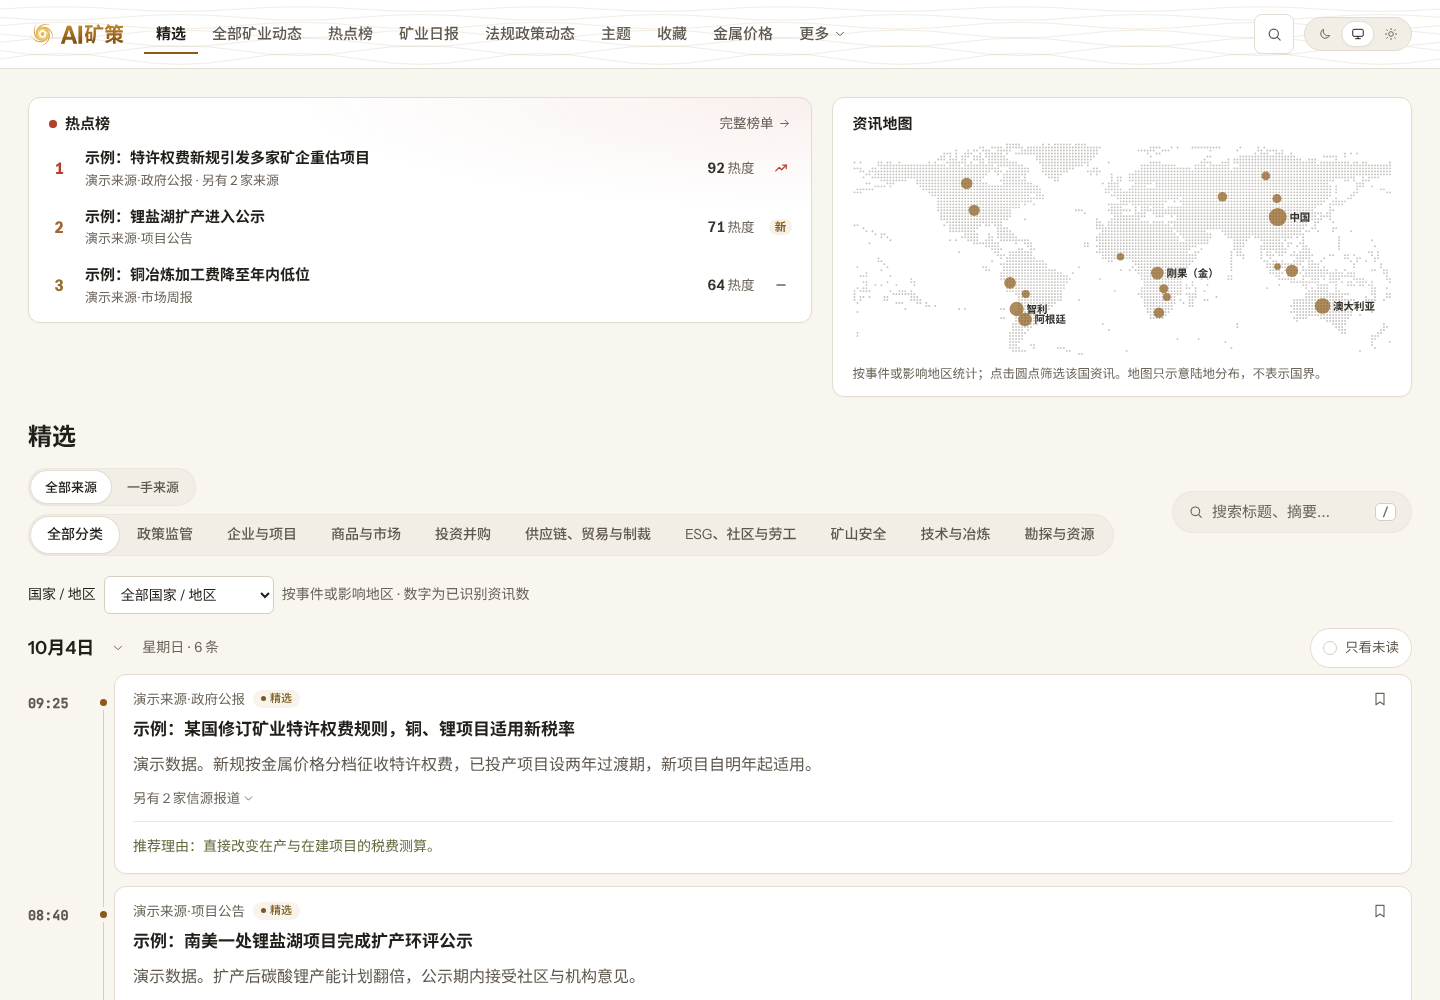
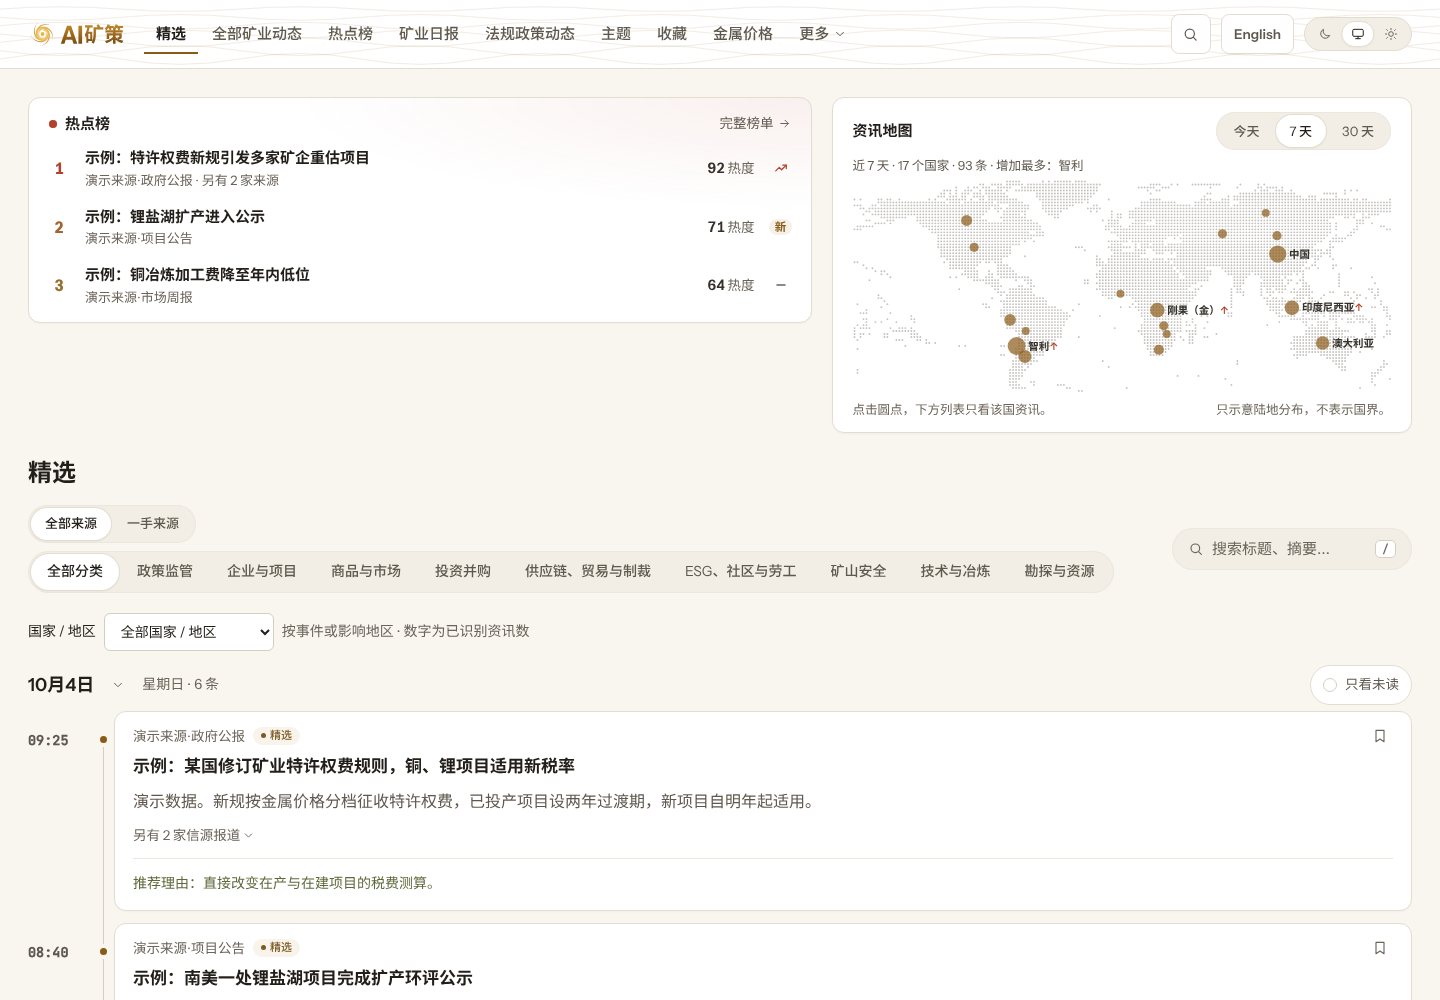
docs(readme): English source README with the bilingual site, deployment settings and AI disclaimer
Claude-Session: https://claude.ai/code/session_0178JUuC66XVoXgDZzqL45iP

diff --git a/e2e/demo-shots.ts b/e2e/demo-shots.ts
@@ -17,6 +17,7 @@ const SHOTS = [
   { file: "reader-dark.png", path: "/", viewport: { width: 1440, height: 1000 }, scheme: "dark" },
   { file: "reader-mobile.png", path: "/", viewport: { width: 390, height: 844 }, scheme: "light" },
   { file: "about-flow-dark.png", path: "/about", viewport: { width: 1440, height: 1000 }, scheme: "dark" },
+  { file: "reader-en.png", path: "/en", viewport: { width: 1440, height: 1000 }, scheme: "light" },
 ] as const;
 
 async function freePort() {

diff --git a/README.md b/README.md
@@ -1,113 +1,72 @@
 <p align="center"><img src="industry/brand/logo.svg" alt="AI矿策" width="72" height="72"></p>
-<h1 align="center">AI矿策</h1>
-<p align="center">全球矿业资讯 · 把分散的消息，读成清楚的变化</p>
-<p align="center"><a href="https://aiminingpolicy.com/">打开网站</a> · <a href="https://aiminingpolicy.com/all">全部动态</a> · <a href="https://aiminingpolicy.com/daily">矿业日报</a> · <a href="https://aiminingpolicy.com/agent">Agent 接入</a> · <a href="https://aiminingpolicy.com/changelog">更新日志</a></p>
+<h1 align="center">AI矿策 · AI Mining Policy</h1>
+<p align="center">Global mining news, read as clear changes</p>
+<p align="center"><b>English</b> · <a href="README.zh-CN.md">简体中文</a> · <a href="README.es.md">Español</a> · <a href="README.fr.md">Français</a></p>
+<p align="center"><a href="https://aiminingpolicy.com/">Open the site</a> · <a href="https://aiminingpolicy.com/all">All news</a> · <a href="https://aiminingpolicy.com/daily">Daily brief</a> · <a href="https://aiminingpolicy.com/agent">For agents</a> · <a href="https://aiminingpolicy.com/changelog">Changelog</a></p>
 
-矿企的公告、监管部门的通知、海外媒体的报道，往往说着同一件事，却散在不同的网站和语言里。AI矿策把这些信息收进来，整理成中文，保留来源和原文链接，让你少花时间找消息，把精力留给判断。
+<!-- readme-source: this file is the source text; the other languages name the commit they translate. -->
 
-不用注册。打开就能读，想核对时可以回到原文。
+Company announcements, regulators' notices and overseas reporting often describe the same event, scattered across sites and languages. AI矿策 collects them, writes a Chinese title and summary for each, and keeps the source and the link to the original, so readers spend less time finding news and more time judging it.
 
-> 全站升级已于 2026 年 10 月 18 日上线，后续修复仍在按完整清单验收。功能说明和实际发布时间可查看网站更新日志；各项实现、验证、上线及质量验收分别记录在[升级清单](docs/acceptance/major-upgrade-status.md)。
+No account is needed. Read straight away, and go back to the original whenever you want to check.
 
 <picture>
   <source media="(prefers-color-scheme: dark)" srcset="docs/assets/reader-preview/reader-dark.png">
-  <img src="docs/assets/reader-preview/reader-light.png" alt="AI矿策精选页面：中文标题、来源、导读和推荐理由" width="100%">
+  <img src="docs/assets/reader-preview/reader-light.png" alt="The AI矿策 picks page: Chinese titles, sources, summaries and the news map" width="100%">
 </picture>
-<p align="center"><sub>截图来自本地实际页面，使用演示数据。</sub></p>
+<p align="center"><sub>Screenshot of the real page with synthetic demo data.</sub></p>
 
-## 从今天发生了什么开始
+## What the site is for
 
-有几分钟，先看**精选**：哪家公司披露了新项目，哪项政策改变了经营条件，哪个矿山出现了值得关注的进展。每条都说明发生了什么、为什么值得看。
+AI矿策 helps people who follow mining read more reliable news in limited time: what changed for companies, projects, markets and rules, and how sure we can be about it. It is focused on metal mining: exploration and resources, project construction, company operations, deals, markets and trade, mine safety, processing technology, and environment and communities. Copper, gold, zinc, silver, lithium, molybdenum, iron and aluminium are all in scope, as is lithium from salt lakes and brines.
 
-想把消息看全，打开**全部矿业动态**；想知道哪些事正被多家来源关注，去看**热点榜**。精选中，同一新闻的不同报道只占一条；后续进展继续留在同一个事件里，全部动态仍可查看各条公开报道。你可以展开来源，也可以顺着时间线读下去。
+## What you can do on it
 
-只想集中读一遍，就看**日报、周报或月报**。关心特定公司、矿种和地区，可以用搜索、筛选和主题页继续追踪。
-
-| 你想了解 | 从这里开始 |
+| You want to know | Start here |
 |---|---|
-| 今天有哪些值得关注的变化 | [精选](https://aiminingpolicy.com/) |
-| 看完整收录，按分类、地区或关键词查找 | [全部矿业动态](https://aiminingpolicy.com/all) |
-| 哪些事件被多家独立来源报道 | [热点榜](https://aiminingpolicy.com/hot) |
-| 集中回顾一天、一周或一个月 | [矿业日报](https://aiminingpolicy.com/daily) |
-| 持续追踪公司和方向 | [主题](https://aiminingpolicy.com/topics) |
-| 看金属最新可取得的报价及上一期变化 | [金属价格](https://aiminingpolicy.com/metals) |
-| 以后再读 | [收藏](https://aiminingpolicy.com/starred) |
+| What changed today that is worth attention | [Picks](https://aiminingpolicy.com/) |
+| Everything collected, by category, country or keyword | [All mining news](https://aiminingpolicy.com/all) |
+| Which events several independent sources are covering | [Trending](https://aiminingpolicy.com/hot) |
+| A day, a week or a month in one read | [Daily brief](https://aiminingpolicy.com/daily) |
+| Where in the world the news is, over the last day, week or month | The news map on the home page |
+| Companies and themes over time | [Topics](https://aiminingpolicy.com/topics) |
+| The latest available metal prices and their change | [Metal prices](https://aiminingpolicy.com/metals) |
+| Reading later | [Saved](https://aiminingpolicy.com/starred) |
 
-关注范围以金属矿业为主，覆盖资源勘探、项目建设、企业经营、交易并购、市场贸易、矿山安全、技术冶炼以及环境和社区。铜、金、锌、银、锂、钼、铁、铝等都在范围内；盐湖与卤水提锂同样关注。
+One story is read once. The system tells apart the same fact, a later development, an unrelated event and a round-up: a story that only changed its headline, language or wording does not become a new pick, while a genuinely new fact is kept as a development of the same event. Trending counts independent publishers, so several feeds of one organisation do not inflate it.
 
-## 同一新闻，读一次就够了
+## Content language
 
-官网发了公告，媒体做了报道，地方协会又转了一遍——来源多了，新闻未必多了。
+The site's content is in Chinese: titles, summaries and the reasons a story was picked. Every item links to its original source, in the original language. The interface is available in Chinese and, under [`/en`](https://aiminingpolicy.com/en), in English; the English interface does not translate the news itself.
 
-系统区分**同一事实、后续进展、无关事件和综合稿**。仅仅换了标题、语言或说法的内容，不会再作为一条新精选；真正新增的事实会作为进展保留下来。事件页保留各家报道，方便你核对不同视角。
+<img src="docs/assets/reader-preview/reader-en.png" alt="The English interface: navigation, filters and the news map in English, news content in Chinese" width="100%">
+<p align="center"><sub>The English interface with synthetic demo data.</sub></p>
 
-热点按独立参与方计算，同一机构的多个入口和重复抓取不会反复增加热度。热度说明报道活跃程度，重要性仍需结合具体内容判断。
+## Policy and regulation
 
-```mermaid
-flowchart LR
-    A[官方公告与媒体报道] --> B[采集与去重]
-    B --> C[预筛、评分与中文整理]
-    C --> D[事件归类与新增信息判断]
-    D --> E[精选与热点]
-    D --> F[全部动态与事件时间线]
-    E --> G[日报、周报、月报]
-```
+The **policy and regulation** line has stopped automatic updates for cost and technical reasons. Its entry and the content already published remain available; the line is being rebuilt around legal instruments and their life cycle, and its return will be announced on the site's changelog.
 
-关于页用动态示意展示来源如何汇集、归并、进入精选与成刊，也会带出最近入选的报道。
+## AI labelling and disclaimer
 
-<img src="docs/assets/reader-preview/about-flow-dark.png" alt="关于页的来源流动示意与最近精选" width="100%">
-<p align="center"><sub>本地实际页面，使用明确的演示数据。</sub></p>
+Titles, summaries, reasons and interpretations are written with AI assistance and are labelled as such on the site. They can be wrong or incomplete: always check the original before relying on anything. Nothing on the site is legal, investment or professional advice. Each page offers a correction and takedown entry.
 
-## 中文读懂，也能核对原文
+## For your own tools
 
-外文资讯先提供中文标题和导读，合格且获准展示全文的精选再由后台补充翻译。翻译尚未完成、只有部分内容或来源不允许展示全文时，页面会如实说明。打开文章不会触发新的付费模型调用。
+Public content is also available to RSS readers, programs and AI agents. Entry points, capabilities and examples are collected on the [For agents page](https://aiminingpolicy.com/agent).
 
-只有日期的来源就显示日期，未知时间保持未知。金属价格显示真实报价日期和比较基期：如果来源还没有发布新价格，页面不会把昨天的报价标成今天。
-
-收藏、阅读位置和外观设置保存在自己的浏览器里。电脑和手机都可以阅读：长文可以直接跳到章节，正文图片可以放大查看。想把一条资讯发给朋友，可以复制链接，也可以保存带来源和二维码的分享图片。
-
-<details>
-<summary>看看手机上的阅读方式</summary>
-<p align="center"><img src="docs/assets/reader-preview/reader-mobile.png" alt="手机精选页面，底部保留阅读导航" width="390"></p>
-<p align="center"><sub>本地演示数据与手机布局截图。</sub></p>
-</details>
-
-**法规政策动态**因成本和技术问题暂时停止自动更新，独立入口和已有内容继续保留。后续将重新建设并上线，恢复时间另行公告；停更说明已在更新日志中单独发布。
-
-## 让自己的工具一起读
-
-公开内容也提供给 RSS 阅读器、程序和 AI Agent。入口、可用能力及示例集中在 [Agent 接入页](https://aiminingpolicy.com/agent)。
-
-| 方式 | 入口 |
+| Way | Entry point |
 |---|---|
-| 公开 API | `/api/v3` |
-| 接口文档 | `/openapi-v3.json` |
-| RSS | `/feed.xml`、`/feed/all.xml`、`/feed/daily.xml`、`/feed/policies.xml` |
+| Public API | `/api/v3` |
+| API description | `/openapi-v3.json` |
+| RSS | `/feed.xml`, `/feed/all.xml`, `/feed/daily.xml`, `/feed/policies.xml` |
 | MCP | `/api/mcp` |
-| Agent 中文答案 | `/api/v1/agent`，从说明页选择资讯、检索、热点或报告 |
-| Agent 阅读说明 | `/llms.txt` |
+| Reading notes for agents | `/llms.txt` |
 
-这些入口只读取已公开内容，遵守相同的撤回与内容权限规则。网站允许阅读的全文，也可能不允许向外再分发；接口会按来源权限提供相应内容。
+These only read public content and follow the same withdrawal and permission rules as the site. A full text the site may show is not always one it may redistribute; the interfaces honour each source's permissions.
 
-## 运营时，可以自己选模型
+## Run it locally
 
-登录 `/admin` 后，可以管理来源、预览采集结果、查看内容诊断、修正归属和发布时间、更新正文展示、处理失败任务，以及查看请求和费用记录。
-
-模型按处理环节配置。你可以自行添加兼容接口、填写模型名称或版本、录入密钥，测试连接后选择使用；也可以复制一份配置试用新版本。修改设置只影响后续工作，已有内容不会因此全部重算。
-
-<details>
-<summary>看看后台怎样添加模型</summary>
-<img src="docs/assets/reader-preview/model-settings.png" alt="后台添加模型接入：填写名称、版本、地址和密钥，留下操作原因" width="100%">
-<p><sub>本地界面演示，未填写真实密钥，也未发起真实模型调用。</sub></p>
-</details>
-
-费用保留实际与估算的区别。服务按请求次数限流，已经得到的结果优先复用；结果未知的调用保留回执，按恢复规则处理。人为暂停的工作需要明确恢复，自动补处理不会替你解除暂停。
-
-密钥只在受保护的后台录入，不写入聊天、代码、截图或公开日志。
-
-## 本地运行与开发
-
-需要 Node.js 24.11 或更高的 24.x 版本，以及 Docker Compose。以下命令用于全新的本地环境：
+You need Node.js 24.11 or a later 24.x release, and Docker Compose. In a fresh checkout:
 
 ```bash
 git clone https://github.com/Crhis-CP/AI-MINE.git
@@ -116,33 +75,53 @@ node scripts/init-env.ts
 docker compose up -d --build
 ```
 
-初始化会生成本地配置和管理员密码，并拒绝覆盖已有 `.env`。启动后打开 `http://localhost:3000` 阅读，在 `http://private.localhost:3000/admin` 登录后台，完成模型及来源配置。来源是否启用、是否允许处理和展示全文，要分别核对；没有有效内容时保留空态。
+The first command creates local settings and an administrator password and refuses to overwrite an existing `.env`. Then read at `http://localhost:3000` and sign in to the administration at `http://private.localhost:3000/admin` to configure models and sources.
 
-参与代码开发时使用仓库固定的 npm 11.19.0：
+To look at the reader without a database, models or keys, start the local demo API, which serves synthetic data only, and point the web development server at it (two terminals):
 
 ```bash
 npm ci
+node e2e/demo-api.ts
+```
+
+```bash
+API_BASE_URL=http://127.0.0.1:3001 npm run dev --workspace @amp/web
+```
+
+Then open `http://127.0.0.1:3000` (Chinese interface) or `http://127.0.0.1:3000/en` (English interface). The web server refuses to start while credentials such as cloud or GitHub tokens are in its environment.
+
+For development, use the pinned npm 11.19.0 and the quick checks:
+
+```bash
 npm run check
 ```
 
-`npm run check` 是快速检查。合并需要独立非生产执行器上的完整 `make verify` 回执，生产发布另按固定流程执行。阅读[贡献指南](CONTRIBUTING.md)和 [AGENTS.md](AGENTS.md) 后，再从对应任务卡开始。
+`npm run check` is the quick subset. Merging needs a full `make verify` receipt from an independent, non-production runner. Read [CONTRIBUTING.md](CONTRIBUTING.md) and [AGENTS.md](AGENTS.md) before starting from a task card.
 
-## 往哪里找
+## Deploying your own copy
 
-| 位置 | 内容 |
+Anyone may deploy the project. Deployment-specific information is configuration, not code:
+
+- **Filing and licence numbers.** The ICP filing number, the public-security filing number and the internet news service licence number are read from `SITE_ICP_FILING`, `SITE_PUBLIC_SECURITY_FILING` and `SITE_NEWS_LICENSE`. Left empty, nothing is shown. A deployment in mainland China should set them and set `SITE_REQUIRE_FILINGS=true`, so the service refuses to start without them. See [`.env.example`](.env.example).
+- **Domain and paths.** The site address and the install directory are deployment settings; see [the release script](deploy/production-release.sh).
+- **Models and keys.** Model providers, names and keys are entered in the protected administration, never in code, logs or screenshots. Costs record cache hits separately where the provider prices them.
+- **Maps.** The news map draws land as dots from Natural Earth data, with no borders. Check the map rules where you publish before showing any map.
+
+## Where to look
+
+| Place | Contents |
 |---|---|
-| [行业包](industry/README.md) | 品牌、分类、公司、法域、提示词和来源配置 |
-| [后端说明](packages/backend/README.md) | 内容处理、事件、发布、模型和运行机制 |
-| [升级清单](docs/acceptance/major-upgrade-status.md) | 当前改造、验证与尚未完成事项 |
-| [决定记录](docs/00-decision-ledger.md) | 已确认的业务与技术取舍 |
-| [统一验证](scripts/verify/README.md) | 完整检查与回执要求 |
-| [正式发布](deploy/production-release.sh) | 持锁发布、迁移与健康检查 |
-| [版本保留](docs/runbooks/release-retention.md) | 现役版本与必要回退版本的保留 |
+| [Industry pack](industry/README.md) | Brand, categories, companies, jurisdictions, prompts and sources |
+| [Backend notes](packages/backend/README.md) | Processing, events, publication, models and operations |
+| [Decision ledger](docs/00-decision-ledger.md) | Confirmed business and technical choices |
+| [Verification](scripts/verify/README.md) | Full checks and receipts |
+| [Release](deploy/production-release.sh) | Locked release, migrations and health checks |
+| [README glossary](docs/i18n/readme-glossary.md) | Terms used across the four README languages |
 
-发现错误或有希望增加的来源，可以使用网站[反馈入口](https://aiminingpolicy.com/feedback)，也可以在仓库提出 Issue。提供原文链接和具体问题，会更容易核对。
+Found a mistake, or know a source worth adding? Use the site's [feedback page](https://aiminingpolicy.com/feedback) or open an issue. A link to the original and the specific problem make it easier to check.
 
-## 贡献与许可
+## Contributing and licence
 
-感谢参与来源整理、问题反馈、代码和文档改进的人。项目使用 Codex 等工具辅助开发、测试和审查，具体变更记录在提交与 Pull Request 中。
+Thanks to everyone who curates sources, reports problems, and improves code and documentation. The project uses AI tools to help develop, test and review; changes are recorded in commits and pull requests.
 
-代码使用 [MIT 许可](LICENSE)。所包含代码及素材的版权、许可和来源登记见 [NOTICE](NOTICE) 与 [UPSTREAM.md](UPSTREAM.md)。新闻原文、图片和附件的使用权限由各自权利人决定。
+The code is under the [MIT licence](LICENSE). Copyright, licences and provenance of included code and assets are listed in [NOTICE](NOTICE) and [UPSTREAM.md](UPSTREAM.md). Rights to news originals, images and attachments belong to their owners.

diff --git a/docs/assets/reader-preview/README.md b/docs/assets/reader-preview/README.md
@@ -15,4 +15,6 @@ npm run build --workspace @amp/web
 node e2e/demo-shots.ts
 ```
 
+`reader-en.png` 是英文界面（`/en`），资讯内容仍为中文。
+
 `model-settings.png` 是后台模型表单的旧截图，来自合成表单，不在本脚本范围内。
